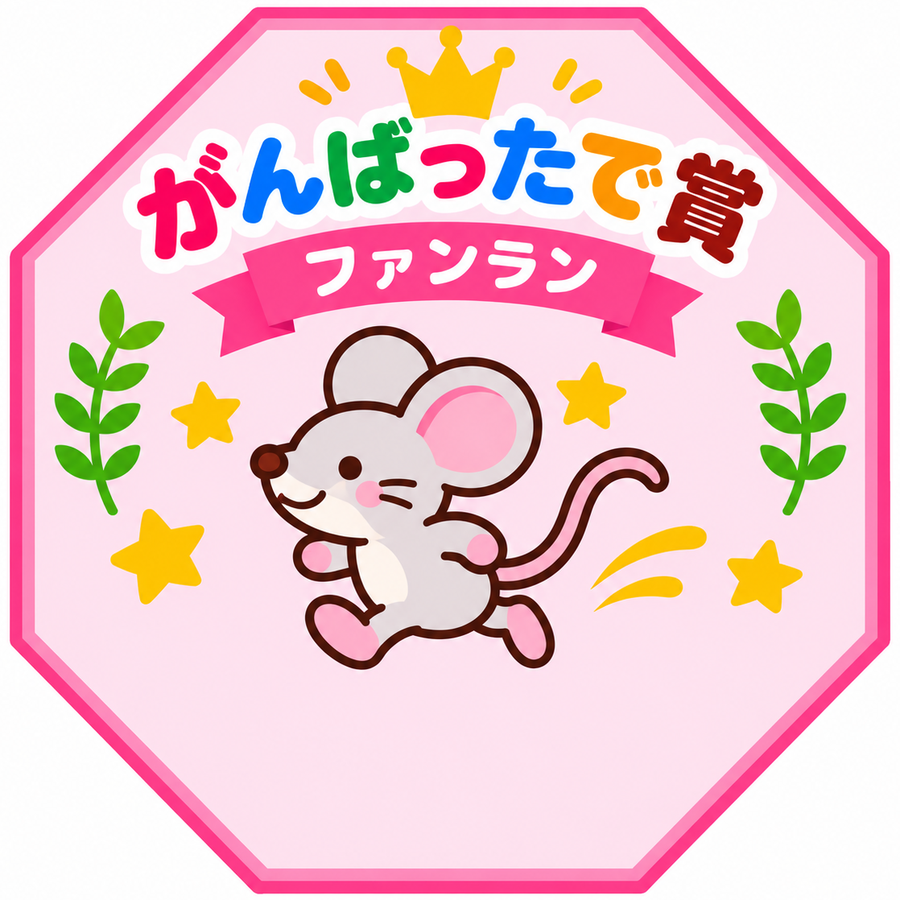
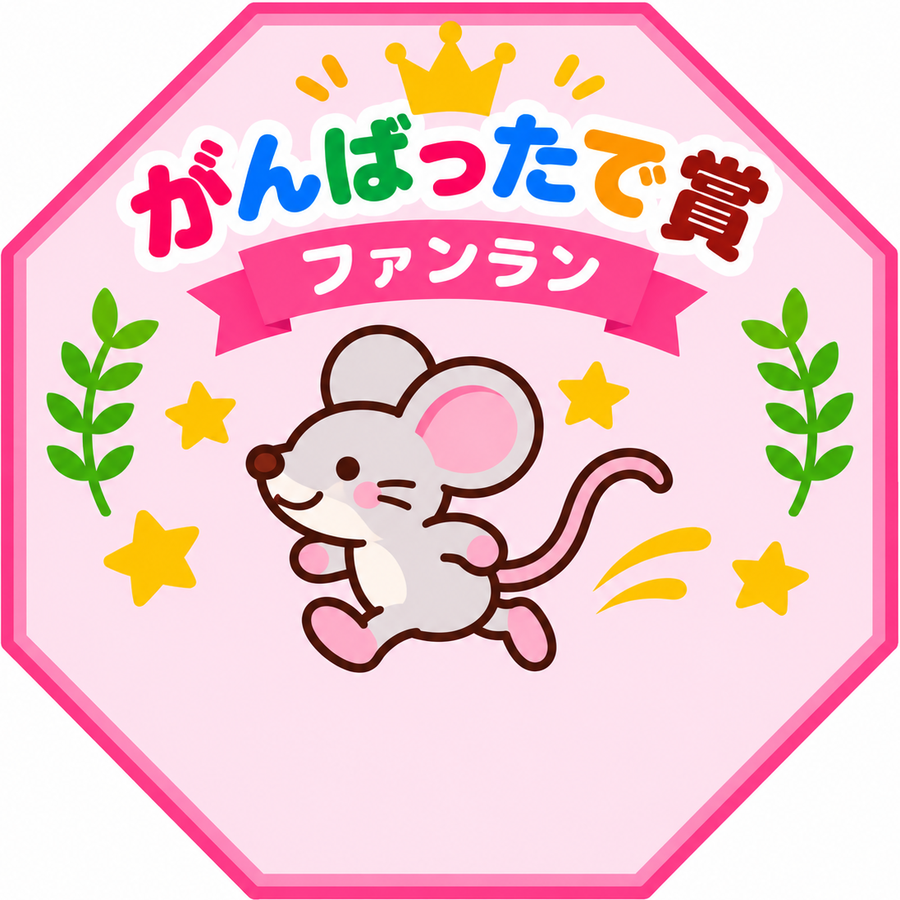
Add files via upload

diff --git a/app.js b/app.js
@@ -8,7 +8,7 @@ const LOCK_STALE_MS = 90000;
 const HEARTBEAT_MS = 20000;
 const DEFAULT_NOTICE = '開会式は、体育館で10時からとなっています。参加者は、5分前にはお集まりください。';
 const DEFAULT_CODES = { admin:'1234', A:'1111', B:'2222', C:'3333' };
-const APP_VERSION='1.0.15';
+const APP_VERSION='1.0.23';
 const TEAM_COLORS={
   1:'#FA927E',2:'#78C7FC',3:'#F8CC76',4:'#9EE6B4',5:'#C1A6F9',
   6:'#F6AAD2',7:'#88E2DB',8:'#F3B180',9:'#A5BDF3',10:'#D2E58A'
@@ -18,12 +18,12 @@ function teamColorMark(no,extra=''){return `<span class="team-color-mark ${extra
 
 const FUNRUN_ANIMALS={
   cheetah:{label:'チーター',file:'assets/medals/cheetah.png',footerBg:'#FAE3AD',accent:'#F0A000'},
-  kangaroo:{label:'カンガルー',file:'assets/medals/kangaroo.png',footerBg:'#BDE6FA',accent:'#069FE2'},
+  kangaroo:{label:'カンガルー',file:'assets/medals/kangaroo.png',footerBg:'#FFF1B8',accent:'#F0A000'},
   mouse:{label:'ネズミ',file:'assets/medals/mouse.png',footerBg:'#F9C4CD',accent:'#F02B59'},
   panda:{label:'パンダ',file:'assets/medals/panda.png',footerBg:'#CEECB8',accent:'#2AA617'},
   bear:{label:'クマ',file:'assets/medals/bear.png',footerBg:'#F0CDAD',accent:'#EA7D2E'},
   penguin:{label:'ペンギン',file:'assets/medals/penguin.png',footerBg:'#D5C1F2',accent:'#7D43DD'},
-  dolphin:{label:'イルカ',file:'assets/medals/dolphin.png',footerBg:'#B2E3E7',accent:'#16AEBB'},
+  dolphin:{label:'イルカ',file:'assets/medals/dolphin.png',footerBg:'#D7F3FF',accent:'#1598E3'},
   zebra:{label:'シマウマ',file:'assets/medals/zebra.png',footerBg:'#F1E1B4',accent:'#D7AA23'}
 };
 const FUNRUN_ANIMAL_KEYS=Object.keys(FUNRUN_ANIMALS);
@@ -224,14 +224,14 @@ function archiveDetailHtml(a){
   const awardHtml=awards.length?`<div class="archive-awards">${awards.map(g=>`<div><strong>${esc(g.label)}</strong>${(g.winners||[]).map(w=>`<span>${esc(w.name)}（${esc(w.teamName)}・第${w.leg}区間） ${fmtClock(w.lap)}</span>`).join('')}</div>`).join('')}</div>`:'<div class="empty-state">個人賞データはありません。</div>';
   const recHtml=records.length?`<table class="data-table"><thead><tr><th>選手</th><th>チーム</th><th>区間</th><th>距離</th><th>記録</th></tr></thead><tbody>${records.map(r=>`<tr><td>${esc(r.name)}</td><td>${esc(r.teamName)}</td><td>第${r.leg}区間</td><td>${r.distanceKm?esc(formatDistanceKm(r.distanceKm)):'—'}</td><td>${fmtClock(r.lap)}</td></tr>`).join('')}</tbody></table>`:'<div class="empty-state">個人記録はありません。</div>';
   const funRows=Object.values(a.funRunEntries||{}).filter(Boolean).sort((x,y)=>(x.submittedAt||0)-(y.submittedAt||0));
-  const funHtml=funRows.length?`<table class="data-table"><thead><tr><th>参加者</th><th>年齢</th><th>区分</th><th>状態</th></tr></thead><tbody>${funRows.map(r=>`<tr><td>${esc(r.name||'')}</td><td>${r.age!=null?esc(r.age)+'歳':'—'}</td><td>${esc(r.category||'')}</td><td>${r.attended?'参加済み':'受付済み'}</td></tr>`).join('')}</tbody></table>`:'<div class="empty-state">ファンラン参加者はいません。</div>';
+  const funHtml=funRows.length?`<table class="data-table"><thead><tr><th>参加者</th><th>区分</th><th>状態</th></tr></thead><tbody>${funRows.map(r=>`<tr><td>${esc(r.name||'')}</td><td>${esc(r.category||'')}</td><td>${r.attended?'参加済み':'受付済み'}</td></tr>`).join('')}</tbody></table>`:'<div class="empty-state">ファンラン参加者はいません。</div>';
   return `<div class="archive-detail-head"><div><small>READ ONLY</small><h3>${esc(a.year||'')}年度 ${esc(a.name||'')}</h3><p>${esc(formatArchiveDate(a.settings?.eventDate))}　${esc(a.settings?.venue||'')}</p></div><button class="secondary-btn" data-close-archive>閉じる</button></div><div class="archive-detail-stats"><span>駅伝申込 <b>${Number(a.counts?.applications||Object.keys(a.applications||{}).length)}</b></span><span>ファンラン <b>${Number(a.counts?.funRunEntries||Object.keys(a.funRunEntries||{}).length)}</b></span><span>チーム <b>${Number(a.counts?.teams||Object.keys(a.teams||{}).length)}</b></span><span>区間 <b>${Number(a.settings?.legCount||15)}</b></span><span>通過記録 <b>${Number(a.counts?.passes||0)}</b></span></div><div class="archive-detail-grid"><section><h4>チーム正式順位</h4>${teamHtml}</section><section><h4>個人賞</h4>${awardHtml}</section><section class="span-two"><h4>個人記録</h4>${recHtml}</section><section class="span-two"><h4>ファンラン参加者</h4>${funHtml}</section></div><p class="hint">過去大会は閲覧専用です。申込・チーム・計測データを現在大会へ戻すことはしません。</p>`;
 }
 function exportArchivedResults(id){
   const a=state.eventArchives?.[id];if(!a)return;const rows=[['record_type','rank_or_category','team_no','team_name','runner_name','leg','distance_km','time']];
   (a.resultSummary?.teamResults||[]).forEach(r=>rows.push(['team',r.rank,r.teamNo,r.teamName,'','','',fmtClock(r.total)]));
   (a.resultSummary?.personalRecords||[]).forEach(r=>rows.push(['runner','',r.teamNo,r.teamName,r.name,r.leg,r.distanceKm||'',fmtClock(r.lap)]));
-  Object.values(a.funRunEntries||{}).filter(Boolean).forEach(r=>rows.push(['funrun',r.attended?'attended':'registered','','',r.name||'','','',r.age!=null?`${r.age}歳 ${r.category||''}`:'']));
+  Object.values(a.funRunEntries||{}).filter(Boolean).forEach(r=>rows.push(['funrun',r.attended?'attended':'registered','','',r.name||'','','',r.category||'']));
   downloadText('\uFEFF'+rows.map(r=>r.map(csvEscape).join(',')).join('\r\n'),`ekiden_${a.year||'archive'}_results.csv`,'text/csv;charset=utf-8');
 }
 async function createNewAnnualEvent(){
@@ -685,7 +685,7 @@ function openCertificatePages(pages,title='証書プレビュー'){
   if(!pages.length){toast('出力できるデータがありません');return;}const w=window.open('','_blank');if(!w){toast('ポップアップを許可してください');return;}w.document.open();w.document.write(`<!doctype html><html lang="ja"><head><meta charset="utf-8"><title>${esc(title)}</title><style>${certificatePrintStyles()}</style></head><body><div class="toolbar"><button onclick="window.print()">PDF・印刷</button>　${esc(title)}（${pages.length}枚）</div>${pages.join('')}</body></html>`);w.document.close();
 }
 function sampleCertificateData(kind){
-  if(kind==='funRunAward')return {name:'おおとよ はな',age:5,category:'未就学'};
+  if(kind==='funRunAward')return {name:'おおとよ はな',category:'未就学'};
   if(kind==='teamAward')return {rank:1,teamName:'サンプルチーム',total:'01:12:34.56'};
   if(kind==='individualAward')return {category:'中学生・男子 最速',name:'大豊 太郎',teamName:'サンプルチーム',legLabel:legLabel(1),lap:'00:08:24.00'};
   return {name:'大豊 花子',teamName:'サンプルチーム',legLabel:legLabel(1),distance:legDistanceLabel(1)||'2.5km',lap:'00:09:12.00',legRank:'3位'};
@@ -834,14 +834,13 @@ function initEntryRows(){
   const previous=[...body.querySelectorAll('tr')].map(row=>({
     name:row.querySelector('[data-runner-name]')?.value||'',
     sex:row.querySelector('[data-runner-sex]')?.value||'男',
-    ageGroup:normalizeAgeGroup(row.querySelector('[data-runner-group]')?.value||'未就学',row.querySelector('[data-runner-age]')?.value),
-    age:row.querySelector('[data-runner-age]')?.value||''
+    ageGroup:normalizeAgeGroup(row.querySelector('[data-runner-group]')?.value||'未就学',null)
   }));
   const sexOpts=['男','女','回答しない'].map(v=>`<option>${v}</option>`).join('');
   const ageOpts=AGE_GROUPS.map(v=>`<option>${v}</option>`).join('');
-  body.innerHTML=Array.from({length:count},(_,i)=>`<tr data-entry-leg="${i+1}"><td data-label="区間" class="runner-leg"><span class="runner-leg-label">${esc(legLabel(i+1))}</span><span class="runner-leg-number">${i+1}</span></td><td data-label="氏名"><input data-runner-name maxlength="60" placeholder="走者氏名" /></td><td data-label="性別"><select data-runner-sex>${sexOpts}</select></td><td data-label="区分"><select data-runner-group>${ageOpts}</select></td><td data-label="年齢"><input data-runner-age inputmode="numeric" type="number" min="1" max="100" placeholder="任意" /></td></tr>`).join('');
+  body.innerHTML=Array.from({length:count},(_,i)=>`<tr data-entry-leg="${i+1}"><td data-label="区間" class="runner-leg"><span class="runner-leg-label">${esc(legLabel(i+1))}</span><span class="runner-leg-number">${i+1}</span></td><td data-label="氏名"><input data-runner-name maxlength="60" placeholder="走者氏名" /></td><td data-label="性別"><select data-runner-sex>${sexOpts}</select></td><td data-label="区分"><select data-runner-group>${ageOpts}</select></td></tr>`).join('');
   body.dataset.legCount=String(count);
-  [...body.querySelectorAll('tr')].forEach((row,i)=>{const p=previous[i];if(!p)return;row.querySelector('[data-runner-name]').value=p.name;row.querySelector('[data-runner-sex]').value=p.sex;row.querySelector('[data-runner-group]').value=normalizeAgeGroup(p.ageGroup,p.age);row.querySelector('[data-runner-age]').value=p.age;});
+  [...body.querySelectorAll('tr')].forEach((row,i)=>{const p=previous[i];if(!p)return;row.querySelector('[data-runner-name]').value=p.name;row.querySelector('[data-runner-sex]').value=p.sex;row.querySelector('[data-runner-group]').value=normalizeAgeGroup(p.ageGroup,null);});
 }
 function renderEntry(){
   initEntryRows();
@@ -871,7 +870,6 @@ function fillDemoEntry(){
     row.querySelector('[data-runner-name]').value=`${names[who]} ${i===7?'光':'選手'+(who+1)}`;
     row.querySelector('[data-runner-sex]').value=i%2?'女':'男';
     row.querySelector('[data-runner-group]').value=['小学生','中学生','一般（～29歳）','一般（30歳～）'][i%4];
-    row.querySelector('[data-runner-age]').value=[10,14,28,45][i%4];
   });
   document.getElementById('entryNotes').value='開発用ダミーデータです。';
   document.getElementById('entryAgree').checked=true;
@@ -881,7 +879,7 @@ function copyPrevRunner(){
   for(let i=1;i<rows.length;i++){
     const cur=rows[i].querySelector('[data-runner-name]'),prev=rows[i-1].querySelector('[data-runner-name]');
     if(!cur.value.trim()&&prev.value.trim()){
-      ['name','sex','group','age'].forEach(k=>{const a=rows[i].querySelector(`[data-runner-${k}]`),b=rows[i-1].querySelector(`[data-runner-${k}]`);if(a&&b)a.value=b.value;});
+      ['name','sex','group'].forEach(k=>{const a=rows[i].querySelector(`[data-runner-${k}]`),b=rows[i-1].querySelector(`[data-runner-${k}]`);if(a&&b)a.value=b.value;});
       toast(`第${i+1}区間へ直前の走者をコピーしました`);return;
     }
   }
@@ -907,7 +905,7 @@ document.getElementById('entryForm').addEventListener('submit',e=>{
     address:document.getElementById('entryAddress').value.trim(),contactPref:document.getElementById('entryContactPref').value,studentName:document.getElementById('entryStudentName').value.trim()
   };
   const err=validateContact(contact.contactPref,contact);if(err){toast(err);return;}
-  const runners=entryRows().map((row,i)=>({leg:i+1,name:row.querySelector('[data-runner-name]').value.trim(),sex:row.querySelector('[data-runner-sex]').value,ageGroup:row.querySelector('[data-runner-group]').value,age:Number(row.querySelector('[data-runner-age]').value)||null}));
+  const runners=entryRows().map((row,i)=>({leg:i+1,name:row.querySelector('[data-runner-name]').value.trim(),sex:row.querySelector('[data-runner-sex]').value,ageGroup:row.querySelector('[data-runner-group]').value}));
   const missing=runners.find(r=>!r.name);if(missing){toast(`第${missing.leg}区間の走者名を入力してください`);return;}
   const at=syncedNow(),id=makeId('app');
   const app={id,eventId:currentEventId(),receiptNo:receiptNumber(id,at),teamName:document.getElementById('entryTeamName').value.trim(),contact,runners,notes:document.getElementById('entryNotes').value.trim(),status:'pending',submittedBy:supabaseMode?(supabaseUserId||''):'local',submittedAt:at,updatedAt:at};
@@ -938,11 +936,11 @@ function renderFunRunEntry(){
 }
 document.getElementById('funRunEntryForm')?.addEventListener('submit',e=>{
   e.preventDefault();if(!funRunIsOpen()){toast('現在、ファンランの受付は停止しています');return;}
-  const name=document.getElementById('funRunName').value.trim(),age=Number(document.getElementById('funRunAge').value),category=document.getElementById('funRunCategory').value,animal=document.getElementById('funRunAnimal')?.value||'';
-  if(!name||!Number.isFinite(age)||age<0){toast('参加者氏名と年齢を確認してください');return;}
+  const name=document.getElementById('funRunName').value.trim(),category=document.getElementById('funRunCategory').value,animal=document.getElementById('funRunAnimal')?.value||'';
+  if(!name){toast('参加者氏名を確認してください');return;}
   if(!FUNRUN_ANIMALS[animal]){toast('メダルのどうぶつを選んでください');return;}
   const at=syncedNow(),id=makeId('funrun');
-  const row={id,eventId:currentEventId(),receiptNo:funRunReceiptNumber(id,at),name,age,category,animal,guardian:document.getElementById('funRunGuardian').value.trim(),phone:document.getElementById('funRunPhone').value.trim(),notes:document.getElementById('funRunNotes').value.trim(),attended:false,source:'web',submittedBy:supabaseMode?(supabaseUserId||''):'local',submittedAt:at,updatedAt:at};
+  const row={id,eventId:currentEventId(),receiptNo:funRunReceiptNumber(id,at),name,category,animal,guardian:document.getElementById('funRunGuardian').value.trim(),phone:document.getElementById('funRunPhone').value.trim(),notes:document.getElementById('funRunNotes').value.trim(),attended:false,source:'web',submittedBy:supabaseMode?(supabaseUserId||''):'local',submittedAt:at,updatedAt:at};
   document.getElementById('funRunSubmitBtn').disabled=true;queueWrite(`funRunEntries/${id}`,row);
   document.getElementById('funRunReceiptNo').textContent=row.receiptNo;document.getElementById('funRunCompleteText').textContent=`${name}さんの${state.settings?.funRunTitle||'ファンラン'}参加を受け付けました。`;
   e.target.reset();document.getElementById('funRunCategory').value='未就学';document.getElementById('funRunAnimal').value='';renderFunRunAnimalChoices();go('funrun-complete');
@@ -956,22 +954,22 @@ function renderFunRunQr(){
 document.getElementById('refreshFunRunQrBtn')?.addEventListener('click',()=>{renderFunRunQr();toast('ファンラン受付QRを更新しました');});
 document.getElementById('downloadFunRunQrBtn')?.addEventListener('click',()=>{renderFunRunQr();setTimeout(()=>{const box=document.getElementById('funRunQrBox'),c=box?.querySelector('canvas'),img=box?.querySelector('img'),a=document.createElement('a');a.download='funrun_entry_qr.png';a.href=c?c.toDataURL('image/png'):img?.src||'';if(a.href)a.click();else toast('QR画像を保存できませんでした');},50);});
 
-function makeFunRunEntry(name,age,category='未就学',source='admin',animal='cheetah'){
-  const at=syncedNow(),id=makeId('funrun');return {id,eventId:currentEventId(),receiptNo:funRunReceiptNumber(id,at),name:String(name||'').trim(),age:Number(age),category:category||'未就学',animal:funRunAnimalKey(animal),guardian:'',phone:'',notes:'',attended:source==='admin',source,submittedBy:source==='admin'?'admin':(supabaseUserId||''),submittedAt:at,updatedAt:at};
+function makeFunRunEntry(name,category='未就学',source='admin',animal='cheetah'){
+  const at=syncedNow(),id=makeId('funrun');return {id,eventId:currentEventId(),receiptNo:funRunReceiptNumber(id,at),name:String(name||'').trim(),category:category||'未就学',animal:funRunAnimalKey(animal),guardian:'',phone:'',notes:'',attended:source==='admin',source,submittedBy:source==='admin'?'admin':(supabaseUserId||''),submittedAt:at,updatedAt:at};
 }
 function renderFunRunAdmin(){
   const rows=funRunEntryList(),attended=rows.filter(r=>r.attended).length,stats=document.getElementById('funRunStats'),list=document.getElementById('funRunList');
   if(stats)stats.innerHTML=`<div class="application-stat"><strong>${rows.length}</strong><small>受付総数</small></div><div class="application-stat"><strong>${attended}</strong><small>参加済み</small></div><div class="application-stat"><strong>${rows.length-attended}</strong><small>未参加確認</small></div>`;
   if(!list)return;if(!rows.length){list.innerHTML='<div class="empty-state">ファンラン参加者はまだいません。当日受付またはダミー参加者で確認できます。</div>';return;}
-  list.innerHTML=`<table class="data-table"><thead><tr><th>受付</th><th>参加者</th><th>区分・メダル</th><th>連絡・備考</th><th>状態</th><th>操作</th></tr></thead><tbody>${rows.map(r=>{const animal=funRunAnimalInfo(r.animal);return `<tr><td>${esc(r.receiptNo||'')}<br><small>${r.submittedAt?new Date(r.submittedAt).toLocaleString('ja-JP'):''}</small></td><td><strong>${esc(r.name||'')}</strong><br><small>${Number.isFinite(Number(r.age))?`${Number(r.age)}歳`:''}</small></td><td>${esc(r.category||'')}<br><small>メダル：${esc(animal.label)}</small></td><td>${esc(r.guardian||'')}${r.guardian&&r.phone?'<br>':''}${esc(r.phone||'')}<div class="app-detail">${esc(r.notes||'')}</div></td><td><span class="status-chip ${r.attended?'approved':'pending'}">${r.attended?'参加済み':'受付済み'}</span></td><td><button class="tiny-btn ${r.attended?'':'green'}" data-toggle-funrun="${esc(r.id)}">${r.attended?'参加取消':'参加済みにする'}</button> <button class="tiny-btn" data-print-funrun="${esc(r.id)}">参加証</button> <button class="tiny-btn" data-print-medal="${esc(r.id)}">メダル</button> <button class="tiny-btn red" data-delete-funrun="${esc(r.id)}">削除</button></td></tr>`;}).join('')}</tbody></table>`;
+  list.innerHTML=`<table class="data-table"><thead><tr><th>受付</th><th>参加者</th><th>区分・メダル</th><th>連絡・備考</th><th>状態</th><th>操作</th></tr></thead><tbody>${rows.map(r=>{const animal=funRunAnimalInfo(r.animal);return `<tr><td>${esc(r.receiptNo||'')}<br><small>${r.submittedAt?new Date(r.submittedAt).toLocaleString('ja-JP'):''}</small></td><td><strong>${esc(r.name||'')}</strong></td><td>${esc(r.category||'')}<br><small>メダル：${esc(animal.label)}</small></td><td>${esc(r.guardian||'')}${r.guardian&&r.phone?'<br>':''}${esc(r.phone||'')}<div class="app-detail">${esc(r.notes||'')}</div></td><td><span class="status-chip ${r.attended?'approved':'pending'}">${r.attended?'参加済み':'受付済み'}</span></td><td><button class="tiny-btn ${r.attended?'':'green'}" data-toggle-funrun="${esc(r.id)}">${r.attended?'参加取消':'参加済みにする'}</button> <button class="tiny-btn" data-print-funrun="${esc(r.id)}">参加証</button> <button class="tiny-btn" data-print-medal="${esc(r.id)}">メダル</button> <button class="tiny-btn red" data-delete-funrun="${esc(r.id)}">削除</button></td></tr>`;}).join('')}</tbody></table>`;
   list.querySelectorAll('[data-toggle-funrun]').forEach(b=>b.addEventListener('click',()=>{const r=state.funRunEntries?.[b.dataset.toggleFunrun];if(!r)return;queueWrite(`funRunEntries/${r.id}`,{...r,attended:!r.attended,attendedAt:!r.attended?syncedNow():null,updatedAt:syncedNow()});toast(!r.attended?'参加済みにしました':'参加済みを取り消しました');}));
   list.querySelectorAll('[data-print-funrun]').forEach(b=>b.addEventListener('click',()=>printOneFunRunCertificate(b.dataset.printFunrun)));
   list.querySelectorAll('[data-print-medal]').forEach(b=>b.addEventListener('click',()=>printOneFunRunMedal(b.dataset.printMedal)));
   list.querySelectorAll('[data-delete-funrun]').forEach(b=>b.addEventListener('click',()=>{const r=state.funRunEntries?.[b.dataset.deleteFunrun];if(r&&confirm(`${r.name}さんのファンラン受付を削除しますか？`)){queueWrite(`funRunEntries/${r.id}`,null,true);toast('ファンラン受付を削除しました');}}));
 }
-document.getElementById('adminAddFunRunBtn')?.addEventListener('click',()=>{const name=document.getElementById('adminFunRunName').value.trim(),age=Number(document.getElementById('adminFunRunAge').value),category=document.getElementById('adminFunRunCategory').value,animal=document.getElementById('adminFunRunAnimal')?.value||'cheetah';if(!name||!Number.isFinite(age)||age<0){toast('氏名と年齢を入力してください');return;}const row=makeFunRunEntry(name,age,category,'admin',animal);queueWrite(`funRunEntries/${row.id}`,row);document.getElementById('adminFunRunName').value='';document.getElementById('adminFunRunAge').value='';toast('当日受付を追加し、参加済みにしました');});
-document.getElementById('loadDemoFunRunBtn')?.addEventListener('click',()=>{const merged={...(state.funRunEntries||{})};[['大豊 はな',5,'未就学','mouse'],['大杉 そら',6,'未就学','kangaroo'],['豊永 りく',4,'未就学','panda'],['清流 ゆい',7,'小学生','dolphin']].forEach((x,i)=>{const r=makeFunRunEntry(x[0],x[1],x[2],'admin',x[3]);r.attended=i<3;merged[r.id]=r;});queueWrite('funRunEntries',merged);toast('ダミー参加者を4名追加しました');});
-document.getElementById('exportFunRunBtn')?.addEventListener('click',()=>{const out=[['receipt_no','name','age','category','medal_animal','guardian','phone','notes','attended','submitted_at']];funRunEntryList().forEach(r=>out.push([r.receiptNo||'',r.name||'',r.age??'',r.category||'',funRunAnimalInfo(r.animal).label,r.guardian||'',r.phone||'',r.notes||'',r.attended?'yes':'no',r.submittedAt?new Date(r.submittedAt).toISOString():'']));downloadText('\uFEFF'+out.map(r=>r.map(csvEscape).join(',')).join('\r\n'),'funrun_participants_v1_0_6.csv','text/csv;charset=utf-8');});
+document.getElementById('adminAddFunRunBtn')?.addEventListener('click',()=>{const name=document.getElementById('adminFunRunName').value.trim(),category=document.getElementById('adminFunRunCategory').value,animal=document.getElementById('adminFunRunAnimal')?.value||'cheetah';if(!name){toast('氏名を入力してください');return;}const row=makeFunRunEntry(name,category,'admin',animal);queueWrite(`funRunEntries/${row.id}`,row);document.getElementById('adminFunRunName').value='';toast('当日受付を追加し、参加済みにしました');});
+document.getElementById('loadDemoFunRunBtn')?.addEventListener('click',()=>{const merged={...(state.funRunEntries||{})};[['大豊 はな','未就学','mouse'],['大杉 そら','未就学','kangaroo'],['豊永 りく','未就学','panda'],['清流 ゆい','小学生','dolphin']].forEach((x,i)=>{const r=makeFunRunEntry(x[0],x[1],'admin',x[2]);r.attended=i<3;merged[r.id]=r;});queueWrite('funRunEntries',merged);toast('ダミー参加者を4名追加しました');});
+document.getElementById('exportFunRunBtn')?.addEventListener('click',()=>{const out=[['receipt_no','name','category','medal_animal','guardian','phone','notes','attended','submitted_at']];funRunEntryList().forEach(r=>out.push([r.receiptNo||'',r.name||'',r.category||'',funRunAnimalInfo(r.animal).label,r.guardian||'',r.phone||'',r.notes||'',r.attended?'yes':'no',r.submittedAt?new Date(r.submittedAt).toISOString():'']));downloadText('\uFEFF'+out.map(r=>r.map(csvEscape).join(',')).join('\r\n'),'funrun_participants_v1_0_6.csv','text/csv;charset=utf-8');});
 document.getElementById('printFunRunAttendedBtn')?.addEventListener('click',()=>printFunRunCertificates(true));
 document.getElementById('printFunRunMedalsBtn')?.addEventListener('click',()=>printFunRunMedals(true));
 
@@ -1029,7 +1027,7 @@ function renderApplications(){
   const el=document.getElementById('applicationList');if(!apps.length){el.innerHTML='<div class="empty-state">申込はまだありません。ダミー申込を追加して画面確認できます。</div>';return;}
   el.innerHTML=`<table class="data-table"><thead><tr><th>受付</th><th>チーム</th><th>代表者・連絡</th><th>選手</th><th>状態</th><th>発行情報</th><th>操作</th></tr></thead><tbody>${apps.map(a=>{
     const c=a.contact||{},status=a.status||'pending',chip=status==='approved'?'approved':status==='returned'?'returned':'pending',statusText=status==='approved'?'承認済':status==='returned'?'差戻し':'未確認';
-    const detail=(a.runners||[]).map(r=>`${legLabel(r.leg)} ${r.name}（${r.sex}/${normalizeAgeGroup(r.ageGroup,r.age)}${r.age?'/'+r.age+'歳':''}）`).join('、');
+    const detail=(a.runners||[]).map(r=>`${legLabel(r.leg)} ${r.name}（${r.sex}/${normalizeAgeGroup(r.ageGroup,r.age)}）`).join('、');
     const issued=status==='approved'?`チーム${esc(a.issuedTeamNo||'')} / <span class="team-code-inline">${esc(a.issuedAccessCode||'')}</span>`:'—';
     const actions=status==='pending'?`<button class="tiny-btn green" data-approve-app="${esc(a.id)}">承認</button> <button class="tiny-btn" data-return-app="${esc(a.id)}">差戻し</button>`:status==='returned'?`<button class="tiny-btn" data-reopen-app="${esc(a.id)}">未確認へ戻す</button>`:`<button class="tiny-btn" data-show-team="${esc(a.issuedTeamNo||'')}">チーム確認</button>`;
     return `<tr><td>${esc(a.receiptNo||'')}<br><small>${a.submittedAt?new Date(a.submittedAt).toLocaleString('ja-JP'):''}</small></td><td><strong>${esc(a.teamName||'')}</strong><div class="app-detail">${esc(a.notes||'')}</div></td><td>${esc(c.repName||'')}<div class="app-detail">${esc(c.phone||'')} / ${esc(c.email||'')}<br>希望：${esc(contactPrefLabel(c.contactPref))}${c.studentName?`<br>${esc(c.studentName)}`:''}</div></td><td><details><summary>${getLegCount()}区間を確認</summary><div class="app-detail">${esc(detail)}</div></details></td><td><span class="status-chip ${chip}">${statusText}</span></td><td>${issued}</td><td>${actions} <button class="tiny-btn red" data-delete-app="${esc(a.id)}">削除</button></td></tr>`;
@@ -1108,7 +1106,7 @@ async function deleteTeam(no){const t=getTeam(no);if(!t)return;if(teamProgress(n
 
 function makeDummyApplication(seed){
   const groups=['小学生','中学生','一般（～29歳）','一般（30歳～）'];const surnames=['山田','佐藤','高橋','小川','西村','森','岡本','藤田'];const submittedAt=syncedNow()-seed*60000,id=makeId(`dummy${seed}`),pref=['email','phone','fax','postal','student'][seed%5];
-  return {id,receiptNo:receiptNumber(id,submittedAt),teamName:['大豊ファミリー','杉の子ランナーズ','吉野川スマイル','おおとよフレンズ','山びこチーム','れいほくスターズ'][seed%6]+seed,contact:{repName:`代表 ${surnames[seed%surnames.length]}`,repType:seed%2?'保護者':'大豊学園児童・生徒',phone:'090-0000-'+String(1000+seed),email:pref==='email'?`dummy${seed}@example.com`:'',fax:pref==='fax'?'0887-00-0000':'',address:pref==='postal'?'高知県長岡郡大豊町（ダミー）':'',contactPref:pref,studentName:pref==='student'?'大豊学園 児童生徒（ダミー）':''},runners:Array.from({length:getLegCount()},(_,i)=>{const same=(i===8?2:i);return {leg:i+1,name:`${surnames[(same+seed)%surnames.length]} 選手${(same%7)+1}`,sex:(i+seed)%2?'女':'男',ageGroup:groups[(i+seed)%groups.length],age:[10,14,29,45][(i+seed)%4]};}),notes:'開発用ダミー申込',status:'pending',submittedAt,updatedAt:submittedAt};
+  return {id,receiptNo:receiptNumber(id,submittedAt),teamName:['大豊ファミリー','杉の子ランナーズ','吉野川スマイル','おおとよフレンズ','山びこチーム','れいほくスターズ'][seed%6]+seed,contact:{repName:`代表 ${surnames[seed%surnames.length]}`,repType:seed%2?'保護者':'大豊学園児童・生徒',phone:'090-0000-'+String(1000+seed),email:pref==='email'?`dummy${seed}@example.com`:'',fax:pref==='fax'?'0887-00-0000':'',address:pref==='postal'?'高知県長岡郡大豊町（ダミー）':'',contactPref:pref,studentName:pref==='student'?'大豊学園 児童生徒（ダミー）':''},runners:Array.from({length:getLegCount()},(_,i)=>{const same=(i===8?2:i);return {leg:i+1,name:`${surnames[(same+seed)%surnames.length]} 選手${(same%7)+1}`,sex:(i+seed)%2?'女':'男',ageGroup:groups[(i+seed)%groups.length]};}),notes:'開発用ダミー申込',status:'pending',submittedAt,updatedAt:submittedAt};
 }
 document.getElementById('loadDemoApplicationsBtn').addEventListener('click',()=>{const merged={...(state.applications||{})};for(let i=1;i<=6;i++){const a=makeDummyApplication(i);merged[a.id]=a;}queueWrite('applications',merged);toast('ダミー申込を6件追加しました');});
 document.getElementById('printAllTeamsBtn')?.addEventListener('click',()=>printTeamGuide(teamList().map(t=>t.teamNo)));
@@ -1149,7 +1147,7 @@ function exportBackupJson(){
   const date=new Date().toISOString().slice(0,10).replaceAll('-','');downloadText(JSON.stringify(payload,null,2),`ekiden_backup_${date}.json`,'application/json;charset=utf-8');toast('現在大会のバックアップを保存しました');
 }
 function exportTeamsCsv(){
-  const out=[['team_no','team_name','runner_leg','runner_name','sex','age_group','age','distance_km']];teamList().forEach(t=>(t.runners||[]).filter(r=>Number(r.leg)<=getLegCount()).sort((a,b)=>a.leg-b.leg).forEach(r=>out.push([t.teamNo,t.teamName,r.leg,r.name||'',r.sex||'',normalizeAgeGroup(r.ageGroup,r.age),r.age??'',getLegDistance(r.leg)??''])));downloadText('\uFEFF'+out.map(r=>r.map(csvEscape).join(',')).join('\r\n'),'ekiden_teams_v1.csv','text/csv;charset=utf-8');
+  const out=[['team_no','team_name','runner_leg','runner_name','sex','age_group','distance_km']];teamList().forEach(t=>(t.runners||[]).filter(r=>Number(r.leg)<=getLegCount()).sort((a,b)=>a.leg-b.leg).forEach(r=>out.push([t.teamNo,t.teamName,r.leg,r.name||'',r.sex||'',normalizeAgeGroup(r.ageGroup,r.age),getLegDistance(r.leg)??''])));downloadText('\uFEFF'+out.map(r=>r.map(csvEscape).join(',')).join('\r\n'),'ekiden_teams_v1.csv','text/csv;charset=utf-8');
 }
 async function restoreBackupFile(file){
   if(!file)return;let payload;try{payload=JSON.parse(await file.text());}catch{toast('JSONファイルを読み込めませんでした');return;}

diff --git a/styles.css b/styles.css
@@ -57,7 +57,7 @@ body{background:radial-gradient(circle at 18% 0%,rgba(22,134,232,.10),transparen
 .entry-screen{max-width:1180px!important;width:100%;padding-left:clamp(12px,3vw,28px);padding-right:clamp(12px,3vw,28px)}
 .entry-panel{width:100%;max-width:none;margin:0 auto;padding:clamp(16px,3vw,30px)}
 .entry-panel fieldset{width:100%}.entry-panel .form-grid.two{grid-template-columns:repeat(2,minmax(0,1fr));column-gap:22px}.entry-panel input,.entry-panel select,.entry-panel textarea{font-size:16px;min-height:48px}.entry-panel textarea{min-height:112px}
-.runner-entry-table{min-width:0;table-layout:fixed}.runner-entry-table th:nth-child(1){width:8%}.runner-entry-table th:nth-child(2){width:34%}.runner-entry-table th:nth-child(3){width:18%}.runner-entry-table th:nth-child(4){width:24%}.runner-entry-table th:nth-child(5){width:16%}.runner-leg-label{display:none}.runner-leg-number{display:inline}
+.runner-entry-table{min-width:0;table-layout:fixed}.runner-entry-table th:nth-child(1){width:10%}.runner-entry-table th:nth-child(2){width:40%}.runner-entry-table th:nth-child(3){width:20%}.runner-entry-table th:nth-child(4){width:30%}.runner-leg-label{display:none}.runner-leg-number{display:inline}
 
 /* Participant view: notices first, then teams; everything can be collapsed */
 .participant-screen{max-width:900px}.participant-section{padding:0;overflow:hidden;margin-bottom:16px}.participant-section-head{display:flex;align-items:flex-end;justify-content:space-between;gap:12px;padding:18px 20px 12px;background:linear-gradient(135deg,#7043b7,#5d3798);color:#fff}.participant-section-head.team-head{background:linear-gradient(135deg,#175ca5,#0d4788)}.participant-section-head small{display:block;font-size:10px;letter-spacing:.12em;opacity:.8;font-weight:900}.participant-section-head h2{font-size:25px;margin-top:2px}.section-count{font-size:12px;font-weight:900;background:rgba(255,255,255,.18);padding:6px 10px;border-radius:999px}.participant-guide{margin:0!important;padding:12px 18px 0;color:#72869a!important;font-size:12px}.collapsible-board{padding:12px 16px 18px;margin-top:0}.participant-notice-item,.participant-team-item{border:1px solid #dce8f1;border-radius:15px;background:#fff;overflow:hidden;box-shadow:0 4px 14px rgba(28,70,108,.035)}.participant-notice-item+ .participant-notice-item,.participant-team-item+ .participant-team-item{margin-top:9px}.participant-notice-item.important{border-color:#efd5a9;background:#fffdf8}.participant-notice-item.pinned{box-shadow:0 7px 18px rgba(108,69,184,.08)}.participant-notice-item summary,.participant-team-item summary{list-style:none;cursor:pointer;display:flex;align-items:center;gap:12px;padding:13px 14px;min-height:66px}.participant-notice-item summary::-webkit-details-marker,.participant-team-item summary::-webkit-details-marker{display:none}.participant-notice-summary-main{min-width:0;flex:1}.participant-notice-summary-main .notice-card-title{font-size:16px;white-space:nowrap;overflow:hidden;text-overflow:ellipsis}.participant-notice-summary-side{display:flex;align-items:center;gap:9px;color:#7b8fa1;font-size:10px;white-space:nowrap}.disclosure-mark{display:grid;place-items:center;width:28px;height:28px;border-radius:50%;background:#eef5fa;color:#2a6698;font-size:18px;line-height:1;transition:.15s}.participant-notice-item[open] .disclosure-mark,.participant-team-item[open] .disclosure-mark{transform:rotate(45deg)}.participant-notice-body{border-top:1px solid #edf2f6;padding:14px 16px 17px;line-height:1.8;color:#324b63;font-weight:650;background:#fcfdff}.participant-team-list{padding:12px 16px 18px}.participant-team-item summary{display:grid;grid-template-columns:44px minmax(0,1fr) auto 28px}.team-rank-badge{width:42px;height:42px;border-radius:12px;display:flex;align-items:baseline;justify-content:center;gap:1px;background:#eef4f8;color:#234b70;font-size:20px;font-weight:900}.team-rank-badge small{font-size:9px}.participant-team-item:nth-child(1) .team-rank-badge{background:#ffe68c}.participant-team-item:nth-child(2) .team-rank-badge{background:#e7edf2}.participant-team-item:nth-child(3) .team-rank-badge{background:#ffd7b5}.team-summary-name{min-width:0}.team-summary-name strong{display:block;font-size:16px;white-space:nowrap;overflow:hidden;text-overflow:ellipsis}.team-summary-name span{font-size:11px;color:#788da0}.team-summary-progress{text-align:right;white-space:nowrap}.team-summary-progress span{display:block;color:#60778d;font-size:11px}.team-summary-progress strong{display:block;font-variant-numeric:tabular-nums;font-size:16px;color:#173d61;margin-top:2px}.team-record-body{border-top:1px solid #eaf0f5;background:#fbfdff;padding:8px 14px 12px}.team-record-row{display:grid;grid-template-columns:74px minmax(0,1fr) 92px 120px;gap:8px;align-items:center;padding:9px 3px;border-bottom:1px solid #edf2f5;font-size:12px}.team-record-row:last-child{border-bottom:0}.record-leg{font-weight:900;color:#284f72}.record-runner{white-space:nowrap;overflow:hidden;text-overflow:ellipsis}.record-lap,.record-total{font-variant-numeric:tabular-nums;text-align:right}.record-lap{font-weight:900;color:#153f65}.record-total{color:#71869a}.team-record-empty{padding:16px;color:#8798a8;text-align:center;font-size:12px}.team-record-panel .provisional-note{padding:0 18px 16px}
@@ -120,7 +120,7 @@ body{background:radial-gradient(circle at 18% 0%,rgba(22,134,232,.10),transparen
 
 
 /* v1.0.1 fun-run animal medals / final award adjustments */
-.funrun-animal-section{margin-top:16px;padding:14px;border:1px solid #d6e7e0;border-radius:14px;background:#fbfefc}.funrun-animal-title{font-weight:900;color:#285d57;margin-bottom:10px}.funrun-animal-title small{display:block;font-weight:600;color:#708a84;font-size:11px;margin-top:3px}.animal-choice-grid{display:grid;grid-template-columns:repeat(4,minmax(0,1fr));gap:8px}.animal-choice{position:relative;display:flex;flex-direction:column;align-items:center;gap:5px;border:2px solid #dfe9e5;border-radius:12px;padding:7px;background:#fff;cursor:pointer;transition:.12s}.animal-choice:hover{border-color:#9fd0c3}.animal-choice.selected{border-color:#2e9b84;background:#effbf7;box-shadow:0 0 0 2px rgba(46,155,132,.1)}.animal-choice input{position:absolute;opacity:0;pointer-events:none}.animal-choice img{width:100%;aspect-ratio:1/1;object-fit:cover;border-radius:9px}.animal-choice span{font-size:12px;font-weight:900;color:#315b55}.funrun-quick-entry{grid-template-columns:auto minmax(160px,1fr) 90px 125px 130px auto}@media(max-width:900px){.animal-choice-grid{grid-template-columns:repeat(4,minmax(0,1fr))}.funrun-quick-entry{grid-template-columns:1fr 1fr}}@media(max-width:600px){.animal-choice-grid{grid-template-columns:repeat(2,minmax(0,1fr))}.funrun-quick-entry{grid-template-columns:1fr}}
+.funrun-animal-section{margin-top:16px;padding:14px;border:1px solid #d6e7e0;border-radius:14px;background:#fbfefc}.funrun-animal-title{font-weight:900;color:#285d57;margin-bottom:10px}.funrun-animal-title small{display:block;font-weight:600;color:#708a84;font-size:11px;margin-top:3px}.animal-choice-grid{display:grid;grid-template-columns:repeat(4,minmax(0,1fr));gap:8px}.animal-choice{position:relative;display:flex;flex-direction:column;align-items:center;gap:5px;border:2px solid #dfe9e5;border-radius:12px;padding:7px;background:#fff;cursor:pointer;transition:.12s}.animal-choice:hover{border-color:#9fd0c3}.animal-choice.selected{border-color:#2e9b84;background:#effbf7;box-shadow:0 0 0 2px rgba(46,155,132,.1)}.animal-choice input{position:absolute;opacity:0;pointer-events:none}.animal-choice img{width:100%;aspect-ratio:1/1;object-fit:cover;border-radius:9px}.animal-choice span{font-size:12px;font-weight:900;color:#315b55}.funrun-quick-entry{grid-template-columns:auto minmax(180px,1fr) 140px 150px auto}@media(max-width:900px){.animal-choice-grid{grid-template-columns:repeat(4,minmax(0,1fr))}.funrun-quick-entry{grid-template-columns:1fr 1fr}}@media(max-width:600px){.animal-choice-grid{grid-template-columns:repeat(2,minmax(0,1fr))}.funrun-quick-entry{grid-template-columns:1fr}}
 
 /* v1.0.7 管理画面カテゴリタブ */
 .admin-category-tabs{position:sticky;top:0;z-index:30;display:flex;gap:8px;overflow-x:auto;padding:12px 14px 10px;margin:0 0 8px;background:rgba(239,248,255,.96);backdrop-filter:blur(8px);border:1px solid #d2e2ee;border-radius:16px;box-shadow:0 5px 18px rgba(34,84,120,.08);scrollbar-width:thin}.admin-category-tab{flex:0 0 auto;border:1px solid #c5d9e8;background:#fff;color:#24445f;border-radius:12px;padding:11px 17px;font-weight:800;font-size:14px;cursor:pointer;transition:.18s ease}.admin-category-tab:hover{background:#f3f8fc;border-color:#9fc1d8}.admin-category-tab.active{background:#167ed8;color:#fff;border-color:#167ed8;box-shadow:0 5px 14px rgba(22,126,216,.22)}.admin-tab-caption{margin:0 6px 12px;color:#647d90;font-size:13px;font-weight:700}.admin-tab-panel{display:none!important}.admin-tab-panel.admin-tab-visible{display:block!important}@media(max-width:700px){.admin-category-tabs{padding:9px 8px;gap:6px;border-radius:13px}.admin-category-tab{padding:9px 12px;font-size:13px}.admin-tab-caption{font-size:12px;margin-bottom:9px}}

diff --git a/index.html b/index.html
@@ -117,7 +117,7 @@
               <div class="fieldset-head"><legend id="entryLegLegend">15区間の走者</legend><span>同じ方が複数区間を走っても構いません。</span></div>
               <div class="runner-entry-table-wrap">
                 <table class="runner-entry-table">
-                  <thead><tr><th>区間</th><th>氏名</th><th>性別</th><th>区分</th><th>年齢</th></tr></thead>
+                  <thead><tr><th>区間</th><th>氏名</th><th>性別</th><th>区分</th></tr></thead>
                   <tbody id="entryRunnerRows"></tbody>
                 </table>
               </div>
@@ -159,7 +159,6 @@
               <legend>参加者</legend>
               <div class="form-grid two">
                 <label>参加者氏名 <span class="req">必須</span><input id="funRunName" required maxlength="60" placeholder="例：大豊 はな" /></label>
-                <label>年齢 <span class="req">必須</span><input id="funRunAge" required type="number" min="0" max="100" inputmode="numeric" placeholder="例：5" /></label>
                 <label>区分<select id="funRunCategory"><option>未就学</option><option>小学生</option><option>中学生</option><option>高校生</option><option>一般</option></select></label>
                 <label>保護者・付き添い氏名<input id="funRunGuardian" maxlength="60" placeholder="任意" /></label>
                 <label>連絡先電話番号<input id="funRunPhone" inputmode="tel" placeholder="任意" /></label>
@@ -418,12 +417,11 @@
             <div class="funrun-quick-entry">
               <strong>当日受付を追加</strong>
               <input id="adminFunRunName" placeholder="参加者氏名" />
-              <input id="adminFunRunAge" type="number" min="0" max="100" inputmode="numeric" placeholder="年齢" />
               <select id="adminFunRunCategory"><option>未就学</option><option>小学生</option><option>中学生</option><option>高校生</option><option>一般</option></select>
               <select id="adminFunRunAnimal"><option value="cheetah">チーター</option><option value="kangaroo">カンガルー</option><option value="mouse">ネズミ</option><option value="panda">パンダ</option><option value="bear">クマ</option><option value="penguin">ペンギン</option><option value="dolphin">イルカ</option><option value="zebra">シマウマ</option></select>
               <button class="secondary-btn" id="adminAddFunRunBtn" type="button">当日受付を追加</button>
             </div>
-            <p class="hint">ファンランは承認不要です。「参加済み」にすると、参加証とメダルの一括出力対象になります。メダルの一括印刷は「結果・表彰」タブから行えます。A4縦に8枚（2列×4段）で配置します。</p>
+            <p class="hint">ファンランは承認不要です。「参加済み」にすると、参加証とメダルの一括出力対象になります。メダルの一括印刷は「結果・表彰」タブから行えます。A4縦に表裏4組で配置します。中央で折って貼り合わせます。</p>
             <div id="funRunList" class="table-wrap"></div>
           </article>
 

diff --git a/V1_RELEASE_NOTES.md b/V1_RELEASE_NOTES.md
@@ -1,4 +1,4 @@
-v1.0.22
+v1.0.23
 
 - ファンランメダルを1.2倍サイズに拡大（A4 1ページ6枚配置に変更）
 
@@ -75,3 +75,8 @@ v0.15.1までのSQLパッチを適用済みの環境では、v1.0用の追加SQL
 - 既存の管理機能・Supabase構成は変更なし
 
 - ファンランメダルのレイアウトを再調整（メダル本体を拡大、文字欄をメダル内に収めてGitHub Pagesでの崩れを軽減）
+
+- ファンラン／駅伝の申込フォームから年齢入力を削除し、管理画面・CSV出力も年齢なしに統一。
+- カンガルー裏面を黄・オレンジ系へ統一。
+- カンガルー・パンダ・イルカの表面素材を再調整。イルカは自然に泳ぐ／跳ねる構図へ変更。
+- メダル素材8種類を外周ぎりぎりまで正規化して表裏の形合わせを改善。

diff --git a/README.md b/README.md
@@ -1,4 +1,4 @@
-v1.0.22
+v1.0.23
 
 - ファンランメダルを1.2倍サイズに拡大（A4 1ページ6枚配置に変更）
 
